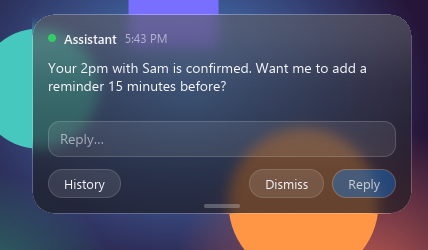
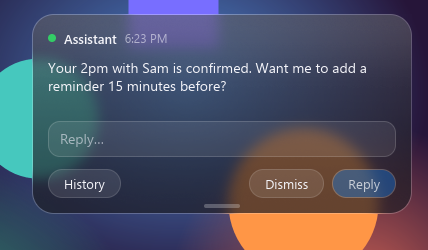
Stop Windows painting a title bar over the popup on focus loss
The rounded window region made Windows draw a classic title bar and white
frame over the window whenever it lost focus. Since the window is now
exactly the panel and the region never clipped the blur, drop it (and the
resize handler that kept it in sync).

Retake docs/popup.png with no sharp shape behind the panel's corners.

diff --git a/src/ui.rs b/src/ui.rs
@@ -96,7 +96,6 @@ enum Msg {
     SettingsOpened(window::Id),
     WindowClosed(window::Id),
     Close(window::Id),
-    Resized(window::Id),
     Draft(String),
     Hover(bool),
     /// A click, scroll or key press in a window.
@@ -177,7 +176,7 @@ impl App {
             Msg::PopupOpened(id) => {
                 let activate = self.activate_on_open;
                 let prepare = window::run(id, move |w| {
-                    platform::apply_glass(w, crate::style::RADIUS);
+                    platform::apply_glass(w);
                     if !activate {
                         platform::show_without_activating(w);
                     }
@@ -204,12 +203,6 @@ impl App {
                     return window::close(id);
                 }
                 return self.hide();
-            }
-            Msg::Resized(id) => {
-                // The window's rounded corners have to follow its size.
-                if self.popup == Some(id) && self.fading_since.is_none() {
-                    return window::run(id, |w| platform::apply_glass(w, crate::style::RADIUS)).discard();
-                }
             }
             Msg::Draft(draft) => {
                 self.draft = draft;
@@ -397,7 +390,7 @@ impl App {
         self.fade_generation += 1;
         self.fade = 1.0;
         match (self.fading_since.take(), self.popup) {
-            (Some(_), Some(id)) => window::run(id, |w| platform::apply_glass(w, crate::style::RADIUS)).discard(),
+            (Some(_), Some(id)) => window::run(id, |w| platform::apply_glass(w)).discard(),
             _ => Task::none(),
         }
     }
@@ -575,7 +568,6 @@ impl App {
             Subscription::run(platform::activations).map(|()| Msg::Activate),
             window::close_requests().map(Msg::Close),
             window::close_events().map(Msg::WindowClosed),
-            window::resize_events().map(|(id, _)| Msg::Resized(id)),
             iced::system::theme_changes().map(Msg::ThemeMode),
             event::listen_with(|event, _, id| match event {
                 iced::Event::Keyboard(keyboard::Event::KeyPressed {

diff --git a/src/platform.rs b/src/platform.rs
@@ -8,33 +8,19 @@ use iced::window::Window;
 /// drawn more opaque to stay readable).
 pub const HAS_BLUR: bool = cfg!(windows);
 
-/// Blurs what's behind the window and rounds its corners to `radius`, so clicks
-/// outside the panel's corners fall through. Call again after resizes.
+/// Blurs what's behind the window.
 ///
-/// The blur always covers the whole window rectangle: on Windows 10 a window
-/// region clips what the app draws, but not the blur. So the window has to be
-/// exactly the size of the panel, or the blur shows around it.
-#[cfg(windows)]
-pub fn apply_glass(window: &dyn Window, radius: f32) {
-    use windows_sys::Win32::Graphics::Gdi::{CreateRoundRectRgn, SetWindowRgn};
-    use windows_sys::Win32::UI::HiDpi::GetDpiForWindow;
-    use windows_sys::Win32::UI::WindowsAndMessaging::GetClientRect;
-    let Some(hwnd) = hwnd(window) else { return };
+/// The blur always covers the whole window rectangle, so the window has to be
+/// exactly the size of the panel, or the blur shows around it. A rounded window
+/// region doesn't help: on Windows 10 it clips what the app draws but not the
+/// blur, and it makes Windows paint a classic title bar and frame over the
+/// window whenever it loses focus.
+pub fn apply_glass(window: &dyn Window) {
+    #[cfg(windows)]
     let _ = window_vibrancy::apply_blur(window, Some((0, 0, 0, 0)));
-    // SAFETY: `hwnd` is a live window owned by this process; the region is
-    // handed over to the system by SetWindowRgn.
-    unsafe {
-        let scale = GetDpiForWindow(hwnd) as f32 / 96.0;
-        let mut rect = std::mem::zeroed();
-        GetClientRect(hwnd, &mut rect);
-        let diameter = (2.0 * radius * scale) as i32;
-        let region = CreateRoundRectRgn(0, 0, rect.right + 1, rect.bottom + 1, diameter, diameter);
-        SetWindowRgn(hwnd, region, 1);
-    }
+    #[cfg(not(windows))]
+    let _ = window;
 }
-
-#[cfg(not(windows))]
-pub fn apply_glass(_: &dyn Window, _: f32) {}
 
 /// Drops the background blur, e.g. while the popup fades out.
 pub fn clear_blur(window: &dyn Window) {
